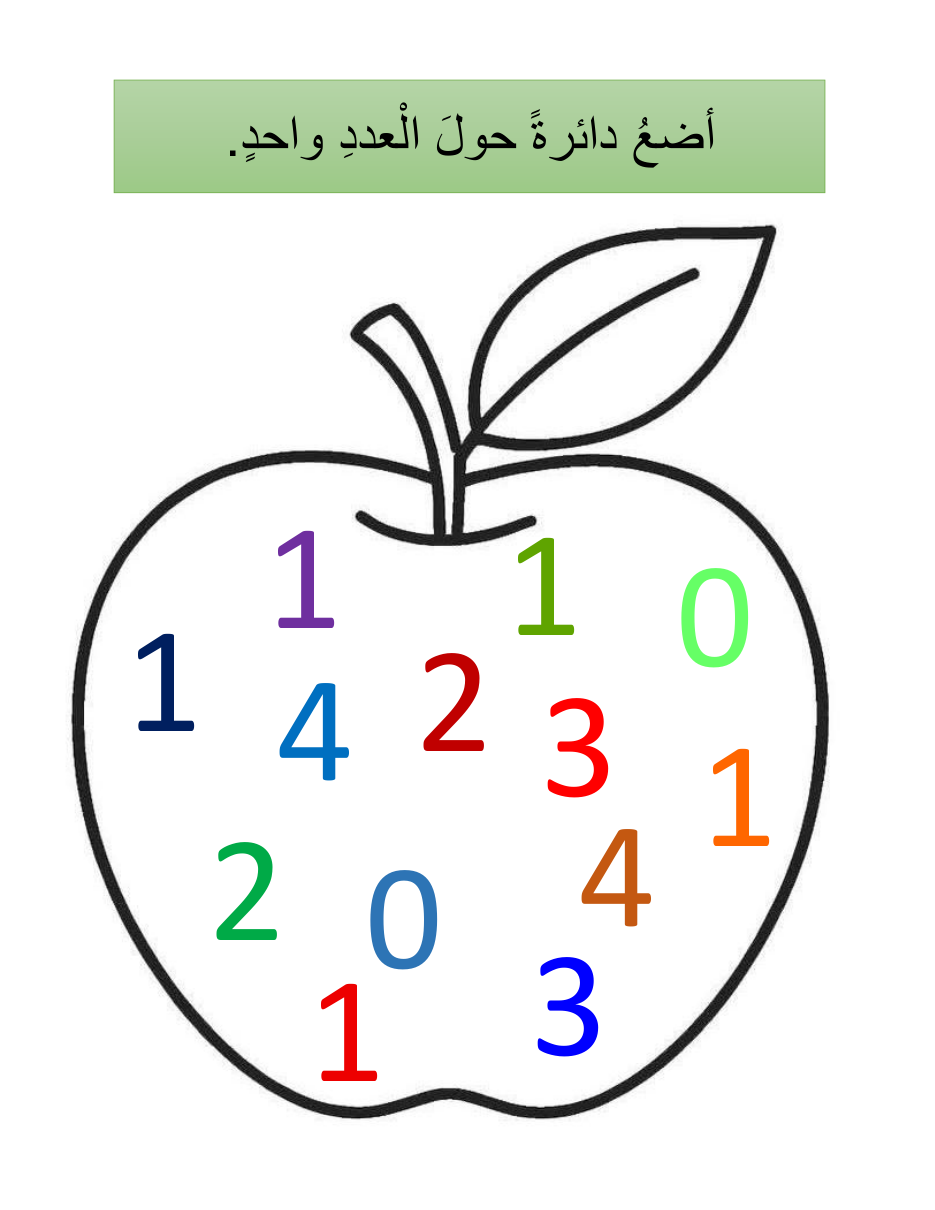
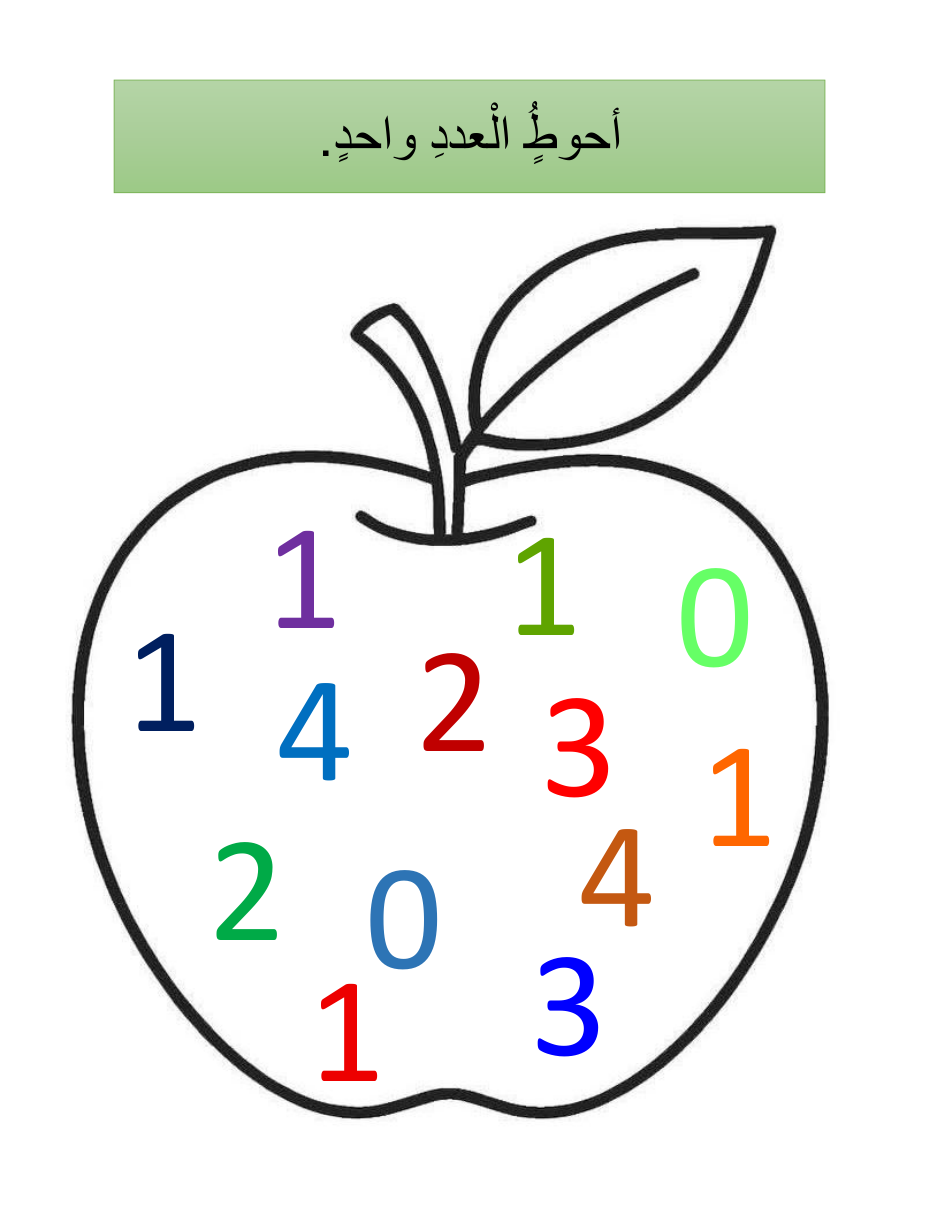
feat: regenerate numbers 1-10 worksheets from updated PDFs
Re-render pages 1-6 (learn, write, countChoose, circleFind, trace, color) for numbers 1-10 from the source PDFs. Page 7 (connect/match) is skipped and number 0 is unchanged. Adds scripts/render-numbers.py so the assets can be regenerated.

Changed region(s): [[0.2481, 0.0917, 0.7754, 0.1529]]

diff --git a/scripts/render-numbers.py b/scripts/render-numbers.py
@@ -1,0 +1,273 @@
+#!/usr/bin/env python3
+"""Regenerate the Numbers (Math) worksheet assets from the source PDFs.
+
+For each of numbers 1..10 this:
+  1. Renders PDF pages 1..6 to public/numbers/{n}/page-{1..6}.png
+     at 110 DPI (935x1210, matching the shipped assets).
+  2. Rewrites that number's entry in src/data/numbersManifest.json
+     (page 3 = countChoose, page 4 = circleFind, each with the
+     tappable numeral hotspots the app positions by percentage).
+
+Source page order (7 pages per PDF):
+  1 learn · 2 write · 3 countChoose · 4 circleFind · 5 trace · 6 color
+  7 "أعد ثم أصل بالعدد الصحيح" (connect/match) — NOT used yet, skipped.
+
+If a source countChoose page is missing the target number inside one of
+its four option clusters, the worst wrong numeral is relabeled to the
+target (image + manifest), mirroring the legacy extract-worksheets.py.
+
+Numbers 0 and any number without a PDF are left untouched.
+
+PyMuPDF (pymupdf) is required:  pip install pymupdf
+
+Usage:
+  python scripts/render-numbers.py --src "<folder with العدد N.pdf>"
+  python scripts/render-numbers.py --src "..." --dry-run
+"""
+
+import argparse
+import json
+import os
+import re
+import sys
+
+try:
+    import pymupdf
+except ImportError:  # pragma: no cover - environment guard
+    print("pymupdf is required: pip install pymupdf", file=sys.stderr)
+    sys.exit(2)
+
+REPO = os.path.dirname(os.path.dirname(os.path.abspath(__file__)))
+DEFAULT_MANIFEST = os.path.join(REPO, "src", "data", "numbersManifest.json")
+DEFAULT_OUT = os.path.join(REPO, "public", "numbers")
+DEFAULT_SRC = r"C:\Users\iblfe\Downloads\أوراق أعمال للأعداد 0-1000 (1)\أوراق العمل word"
+
+DPI = 110
+REF_W, REF_H = 935, 1210  # render size the image-based template was measured at
+
+# PDF page index (1-based) -> app page type. Page 7 is skipped on purpose.
+PAGE_TYPES = {1: "learn", 2: "write", 3: "countChoose", 4: "circleFind", 5: "trace", 6: "color"}
+
+# Numbers 2 and 3 render their countChoose answer numerals as raster
+# images (no extractable text), so their option boxes/values are read
+# from this hand-measured 2x2 template. Box = (x0, x1, y0, y1) in
+# reference pixels; order = the three option values left-to-right.
+IMAGE_BASED_NUMBERS = {2, 3}
+IMAGE_BASED_TEMPLATE = {
+    "tl": {"box": (56, 447, 525, 634), "order": [2, 1, 3]},
+    "tr": {"box": (489, 880, 525, 634), "order": [3, 1, 2]},
+    "bl": {"box": (56, 447, 1004, 1122), "order": [3, 1, 2]},
+    "br": {"box": (489, 880, 1004, 1122), "order": [2, 1, 3]},
+}
+
+# Some source countChoose pages are missing the target number inside one
+# of their four option clusters (e.g. number 7's bottom-left cluster
+# offers 8 9 6). Like the legacy extract-worksheets.py, we relabel the
+# worst wrong numeral in that cluster to the target so every cluster has
+# a correct (circlable) answer. The fix is drawn onto the rendered page
+# with the source font (Calibri) and reflected in the manifest.
+CALIBRI_CANDIDATES = [
+    r"C:\Windows\Fonts\calibri.ttf",
+    "/usr/share/fonts/truetype/crosextra/Calibri.ttf",
+    "/usr/share/fonts/truetype/liberation/LiberationSans-Regular.ttf",
+]
+# A page's four option clusters split at ~50% x and ~60% y.
+CLUSTER_X_SPLIT, CLUSTER_Y_SPLIT = 50.0, 60.0
+
+
+def pdf_path(src, n):
+    return os.path.join(src, f"العدد {n}.pdf")
+
+
+def find_font():
+    for path in CALIBRI_CANDIDATES:
+        if os.path.exists(path):
+            return path
+    return None
+
+
+def text_numerals(page, n):
+    """Hotspots for a countChoose/circleFind page whose numerals are text."""
+    w_pt, h_pt = page.rect.width, page.rect.height
+    out = []
+    for x0, y0, x1, y1, word, *_ in page.get_text("words"):
+        if not re.fullmatch(r"\d+", word):
+            continue
+        out.append({
+            "value": int(word),
+            "xPct": round(x0 / w_pt * 100, 2),
+            "yPct": round(y0 / h_pt * 100, 2),
+            "wPct": round((x1 - x0) / w_pt * 100, 2),
+            "hPct": round((y1 - y0) / h_pt * 100, 2),
+            "correct": int(word) == n,
+        })
+    return out
+
+
+def template_numerals(n, img_w, img_h):
+    """Hotspots for the image-based countChoose pages (numbers 2 and 3)."""
+    sx, sy = img_w / REF_W, img_h / REF_H
+    out = []
+    for spec in IMAGE_BASED_TEMPLATE.values():
+        x0, x1, y0, y1 = spec["box"]
+        x0, x1, y0, y1 = x0 * sx, x1 * sx, y0 * sy, y1 * sy
+        cw = (x1 - x0) / 3
+        for i, val in enumerate(spec["order"]):
+            cx0, cx1 = x0 + i * cw, x0 + (i + 1) * cw
+            out.append({
+                "value": val,
+                "xPct": round(cx0 / img_w * 100, 2),
+                "yPct": round(y0 / img_h * 100, 2),
+                "wPct": round((cx1 - cx0) / img_w * 100, 2),
+                "hPct": round((y1 - y0) / img_h * 100, 2),
+                "correct": val == n,
+            })
+    return out
+
+
+def cluster_of(num):
+    """Which of the four countChoose option clusters a numeral sits in."""
+    col = 0 if num["xPct"] < CLUSTER_X_SPLIT else 1
+    row = 0 if num["yPct"] < CLUSTER_Y_SPLIT else 1
+    return row, col
+
+
+def plan_cluster_fixes(numerals, n, img_w, img_h):
+    """For any cluster lacking n, pick the worst wrong numeral and plan a
+    pixel-space edit that relabels it to n. Mutates `numerals` to match.
+    Returns a list of (x0, y0, x1, y1, text) edits in image pixels."""
+    clusters = {}
+    for i, num in enumerate(numerals):
+        clusters.setdefault(cluster_of(num), []).append(i)
+
+    edits, fixed = [], []
+    for idxs in clusters.values():
+        if any(numerals[i]["correct"] for i in idxs):
+            continue
+        worst = max(idxs, key=lambda i: abs(numerals[i]["value"] - n))
+        num = numerals[worst]
+        x0 = num["xPct"] / 100 * img_w
+        y0 = num["yPct"] / 100 * img_h
+        x1 = x0 + num["wPct"] / 100 * img_w
+        y1 = y0 + num["hPct"] / 100 * img_h
+        edits.append((x0, y0, x1, y1, str(n)))
+        fixed.append(num["value"])
+        num["value"] = n
+        num["correct"] = True
+    return edits, fixed
+
+
+def patch_png(png_path, edits):
+    """White out each edit box and draw the replacement digit centered."""
+    from PIL import Image, ImageDraw, ImageFont
+
+    font_path = find_font()
+    im = Image.open(png_path).convert("RGB")
+    draw = ImageDraw.Draw(im)
+    for x0, y0, x1, y1, text in edits:
+        draw.rectangle([x0 - 3, y0 - 3, x1 + 3, y1 + 3], fill="white")
+        size = max(8, int(round(y1 - y0)))
+        font = ImageFont.truetype(font_path, size) if font_path else ImageFont.load_default()
+        tb = draw.textbbox((0, 0), text, font=font)
+        tw, th = tb[2] - tb[0], tb[3] - tb[1]
+        tx = x0 + ((x1 - x0) - tw) / 2 - tb[0]
+        ty = y0 + ((y1 - y0) - th) / 2 - tb[1]
+        draw.text((tx, ty), text, fill="black", font=font)
+    im.save(png_path)
+
+
+def build_number(src, out_dir, n, dry_run):
+    path = pdf_path(src, n)
+    if not os.path.exists(path):
+        print(f"  n={n}: no PDF, skipping ({os.path.basename(path)})")
+        return None
+
+    doc = pymupdf.open(path)
+    if doc.page_count < 6:
+        print(f"  n={n}: only {doc.page_count} pages, skipping", file=sys.stderr)
+        return None
+
+    entry = {"pages": {}}
+    warnings = []
+    for k, ptype in PAGE_TYPES.items():
+        page = doc[k - 1]
+        img_w = round(page.rect.width * DPI / 72)
+        img_h = round(page.rect.height * DPI / 72)
+        pdata = {"type": ptype, "image": f"{n}_page-{k}.png"}
+        edits = []
+
+        if k == 3:
+            if n in IMAGE_BASED_NUMBERS:
+                pdata["numerals"] = template_numerals(n, REF_W, REF_H)
+            else:
+                pdata["numerals"] = text_numerals(page, n)
+                edits, fixed = plan_cluster_fixes(pdata["numerals"], n, img_w, img_h)
+                if fixed:
+                    warnings.append(
+                        f"page {k}: relabeled {fixed} -> {n} in a cluster missing the answer"
+                    )
+        elif k == 4:
+            pdata["numerals"] = text_numerals(page, n)
+
+        if "numerals" in pdata:
+            if not pdata["numerals"]:
+                warnings.append(f"page {k} ({ptype}): no numerals found")
+            elif not any(x["correct"] for x in pdata["numerals"]):
+                warnings.append(f"page {k} ({ptype}): no correct numeral (value {n} missing)")
+
+        if not dry_run:
+            dest_dir = os.path.join(out_dir, str(n))
+            os.makedirs(dest_dir, exist_ok=True)
+            png_path = os.path.join(dest_dir, f"page-{k}.png")
+            page.get_pixmap(dpi=DPI, alpha=False).save(png_path)
+            if edits:
+                patch_png(png_path, edits)
+
+        entry["pages"][str(k)] = pdata
+
+    doc.close()
+    suffix = ("  !! " + "; ".join(warnings)) if warnings else ""
+    print(f"  n={n}: wrote 6 pages{suffix}")
+    return entry
+
+
+def main():
+    ap = argparse.ArgumentParser()
+    ap.add_argument("--src", default=DEFAULT_SRC)
+    ap.add_argument("--manifest", default=DEFAULT_MANIFEST)
+    ap.add_argument("--out", default=DEFAULT_OUT)
+    ap.add_argument("--numbers", default="1-10")
+    ap.add_argument("--dry-run", action="store_true")
+    args = ap.parse_args()
+
+    if "-" in args.numbers:
+        lo, hi = args.numbers.split("-")
+        numbers = list(range(int(lo), int(hi) + 1))
+    else:
+        numbers = [int(x) for x in args.numbers.split(",")]
+
+    if not os.path.isdir(args.src):
+        print(f"source folder not found: {args.src}", file=sys.stderr)
+        sys.exit(2)
+
+    with open(args.manifest, encoding="utf-8") as f:
+        manifest = json.load(f)
+
+    print(f"source : {args.src}")
+    print(f"images : {args.out}")
+    print(f"manifest: {args.manifest}{'  (dry run)' if args.dry_run else ''}")
+    changed = 0
+    for n in numbers:
+        entry = build_number(args.src, args.out, n, args.dry_run)
+        if entry is not None:
+            manifest[str(n)] = entry
+            changed += 1
+
+    if not args.dry_run and changed:
+        with open(args.manifest, "w", encoding="utf-8") as f:
+            json.dump(manifest, f, ensure_ascii=False, indent=2)
+    print(f"done: {changed} number(s) updated")
+
+
+if __name__ == "__main__":
+    main()
